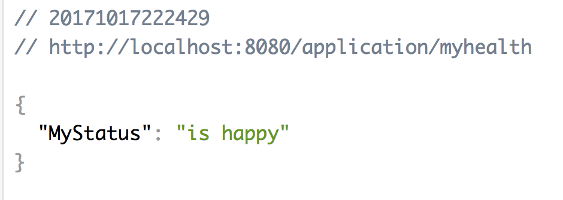
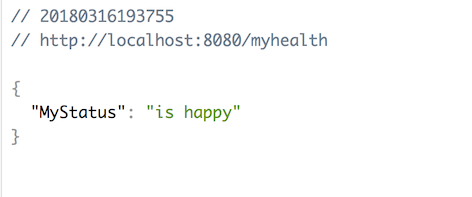
Migrated to Spring Boot 2.0.0 release, removed Servlet Registry, and added Sonar Qube.

diff --git a/src/main/java/com/basaki/actuate/myhealth/MyHealthWebEndpointExtension.java b/src/main/java/com/basaki/actuate/myhealth/MyHealthWebEndpointExtension.java
@@ -2,7 +2,7 @@ package com.basaki.actuate.myhealth;
 
 import org.springframework.boot.actuate.endpoint.annotation.ReadOperation;
 import org.springframework.boot.actuate.endpoint.web.WebEndpointResponse;
-import org.springframework.boot.actuate.endpoint.web.annotation.WebEndpointExtension;
+import org.springframework.boot.actuate.endpoint.web.annotation.EndpointWebExtension;
 
 /**
  * {@code MyHealthWebEndpointExtension} creates an extension for my health
@@ -12,7 +12,7 @@ import org.springframework.boot.actuate.endpoint.web.annotation.WebEndpointExten
  * @author Indra Basak
  * @since 10/17/17
  */
-@WebEndpointExtension(endpoint = MyHealthEndpoint.class)
+@EndpointWebExtension(endpoint = MyHealthEndpoint.class)
 public class MyHealthWebEndpointExtension {
 
     private final MyHealthEndpoint delegate;

diff --git a/README.md b/README.md
@@ -1,4 +1,7 @@
 [![Build Status][travis-badge]][travis-badge-url]
+[![Quality Gate][sonarqube-badge]][sonarqube-badge-url] 
+[![Technical debt ratio][technical-debt-ratio-badge]][technical-debt-ratio-badge-url] 
+[![Coverage][coverage-badge]][coverage-badge-url]
 
 ![](./img/spring-boot.png)
 
@@ -6,7 +9,7 @@ Spring Boot 2.0 Actuator Examples
 =======================================
 
 [Spring Actuator](https://spring.io/blog/2017/08/22/introducing-actuator-endpoints-in-spring-boot-2-0) 
-with [Spring Boot 2.0](https://docs.spring.io/spring-boot/docs/2.0.0.M5/reference/htmlsingle/) examples.
+with [Spring Boot 2.0](https://docs.spring.io/spring-boot/docs/current-SNAPSHOT/reference/htmlsingle/#production-ready-endpoints-custom) examples.
 
 - Example of a Spring Boot 2.0 custom Actuator endpoint
 
@@ -24,28 +27,31 @@ java -jar target/spring-actuator-example-1.0.0.jar
 
 You should notice the application starting up,
 ```
-
   .   ____          _            __ _ _
  /\\ / ___'_ __ _ _(_)_ __  __ _ \ \ \ \
 ( ( )\___ | '_ | '_| | '_ \/ _` | \ \ \ \
  \\/  ___)| |_)| | | | | || (_| |  ) ) ) )
   '  |____| .__|_| |_|_| |_\__, | / / / /
  =========|_|==============|___/=/_/_/_/
- :: Spring Boot ::             (v2.0.0.M5)
-
-2017-10-17 22:24:19.762  INFO 22844 --- [           main] com.basaki.Application                   : Starting Application on jdoe-1234.local with PID 22844 (/Users/john.doe/Development/examples/spring-actuator-example/target/spring-actuator-example-1.0.0.jar started by indra.basak in /Users/john.doe/Development/examples/spring-actuator-example)
+ :: Spring Boot ::        (v2.0.0.RELEASE)
 
 ...
-2017-10-17 22:24:24.168  INFO 22844 --- [           main] s.d.s.w.s.ApiListingReferenceScanner     : Scanning for api listing references
-2017-10-17 22:24:24.369  INFO 22844 --- [           main] o.s.b.w.embedded.tomcat.TomcatWebServer  : Tomcat started on port(s): 8080 (http)
-2017-10-17 22:24:24.374  INFO 22844 --- [           main] com.basaki.Application                   : Started Application in 5.172 seconds (JVM running for 5.616)
-2017-10-17 22:24:29.016  INFO 22844 --- [nio-8080-exec-1] o.a.c.c.C.[Tomcat].[localhost].[/]       : Initializing Spring FrameworkServlet 'dispatcherServlet'
-2017-10-17 22:24:29.016  INFO 22844 --- [nio-8080-exec-1] o.s.web.servlet.DispatcherServlet        : FrameworkServlet 'dispatcherServlet': initialization started
-2017-10-17 22:24:29.033  INFO 22844 --- [nio-8080-exec-1] o.s.web.servlet.DispatcherServlet        : FrameworkServlet 'dispatcherServlet': initialization completed in 17 ms
+completed in 1799 ms
+...
+2018-03-16 19:42:53.256  INFO 61043 --- [           main] s.w.s.m.m.a.RequestMappingHandlerMapping : Mapped "{[/error],produces=[text/html]}" onto public org.springframework.web.servlet.ModelAndView org.springframework.boot.autoconfigure.web.servlet.error.BasicErrorController.errorHtml(javax.servlet.http.HttpServletRequest,javax.servlet.http.HttpServletResponse)
+2018-03-16 19:42:53.346  INFO 61043 --- [           main] s.b.a.e.w.s.WebMvcEndpointHandlerMapping : Mapped "{[/myhealth],methods=[GET],produces=[application/vnd.spring-boot.actuator.v2+json || application/json]}" onto public java.lang.Object org.springframework.boot.actuate.endpoint.web.servlet.AbstractWebMvcEndpointHandlerMapping$OperationHandler.handle(javax.servlet.http.HttpServletRequest,java.util.Map<java.lang.String, java.lang.String>)
+...
+43 --- [           main] o.s.j.e.a.AnnotationMBeanExporter        : Registering beans for JMX exposure on startup
+2018-03-16 19:42:53.967  INFO 61043 --- [           main] o.s.c.support.DefaultLifecycleProcessor  : Starting beans in phase 2147483647
+2018-03-16 19:42:53.968  INFO 61043 --- [           main] d.s.w.p.DocumentationPluginsBootstrapper : Context refreshed
+2018-03-16 19:42:53.982  INFO 61043 --- [           main] d.s.w.p.DocumentationPluginsBootstrapper : Found 1 custom documentation plugin(s)
+2018-03-16 19:42:54.010  INFO 61043 --- [           main] s.d.s.w.s.ApiListingReferenceScanner     : Scanning for api listing references
+2018-03-16 19:42:54.127  INFO 61043 --- [           main] o.s.b.w.embedded.tomcat.TomcatWebServer  : Tomcat started on port(s): 8080 (http) with context path ''
+2018-03-16 19:42:54.132  INFO 61043 --- [           main] com.basaki.Application                   : Started Application in 4.452 seconds (JVM running for 5.266)
 
 ```
 
-Once the application starts up, navigate to `http://localhost:8080/application/myhealth` in a browser, e.g., Chrome.
+Once the application starts up, navigate to `http://localhost:8080/myhealth` in a browser, e.g., Chrome.
 You should notice `myhealth` information as shown below,
 
 ![](./img/myhealth-endpoint.png)
@@ -53,3 +59,12 @@ You should notice `myhealth` information as shown below,
 
 [travis-badge]: https://travis-ci.org/indrabasak/spring-actuator-example.svg?branch=master
 [travis-badge-url]: https://travis-ci.org/indrabasak/spring-actuator-example/
+
+[sonarqube-badge]: https://sonarcloud.io/api/badges/gate?key=com.basaki:spring-actuator-example
+[sonarqube-badge-url]: https://sonarcloud.io/dashboard/index/com.basaki:spring-actuator-example
+
+[technical-debt-ratio-badge]: https://sonarcloud.io/api/badges/measure?key=com.basaki:spring-actuator-example&metric=sqale_debt_ratio
+[technical-debt-ratio-badge-url]: https://sonarcloud.io/dashboard/index/com.basaki:spring-actuator-example 
+
+[coverage-badge]: https://sonarcloud.io/api/badges/measure?key=com.basaki:spring-actuator-example&metric=coverage
+[coverage-badge-url]: https://sonarcloud.io/dashboard/index/com.basaki:spring-actuator-example
